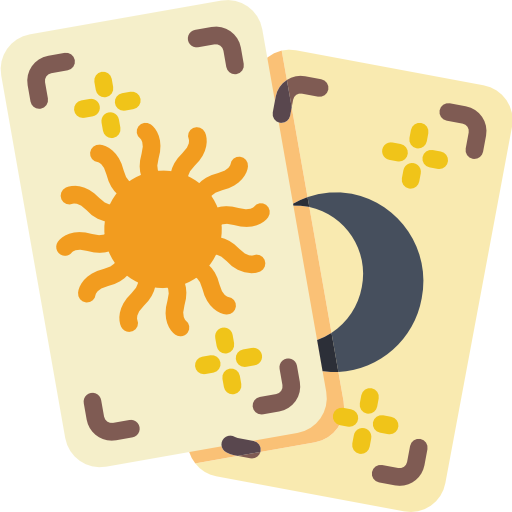
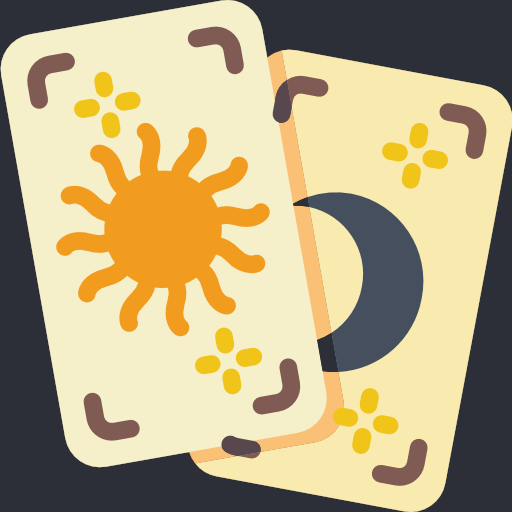
change color #deploy

diff --git a/frontend/public/index.html b/frontend/public/index.html
@@ -5,7 +5,7 @@
     <link rel="icon" href="%PUBLIC_URL%/favicon.ico" />
     <link rel="stylesheet" href="https://cdnjs.cloudflare.com/ajax/libs/font-awesome/5.15.3/css/all.min.css" integrity="sha512-iBBXm8fW90+nuLcSKlbmrPcLa0OT92xO1BIsZ+ywDWZCvqsWgccV3gFoRBv0z+8dLJgyAHIhR35VZc2oM/gI1w==" crossorigin="anonymous" referrerpolicy="no-referrer" />
     <meta name="viewport" content="width=device-width, initial-scale=1" />
-    <meta name="theme-color" content="#000000" />
+    <meta name="theme-color" content="#2C2F38" />
     <meta
       name="description"
       content="Special cards for various board games"
